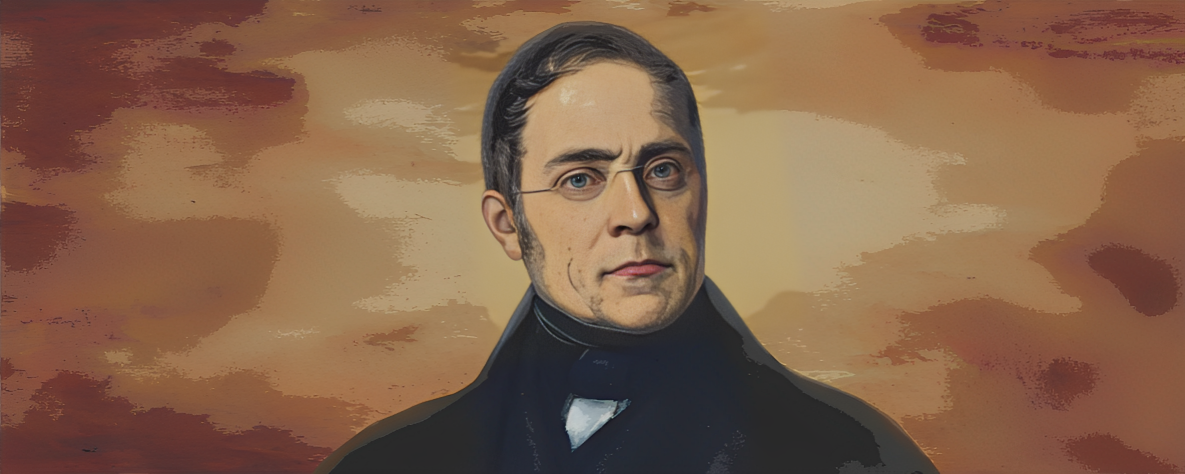
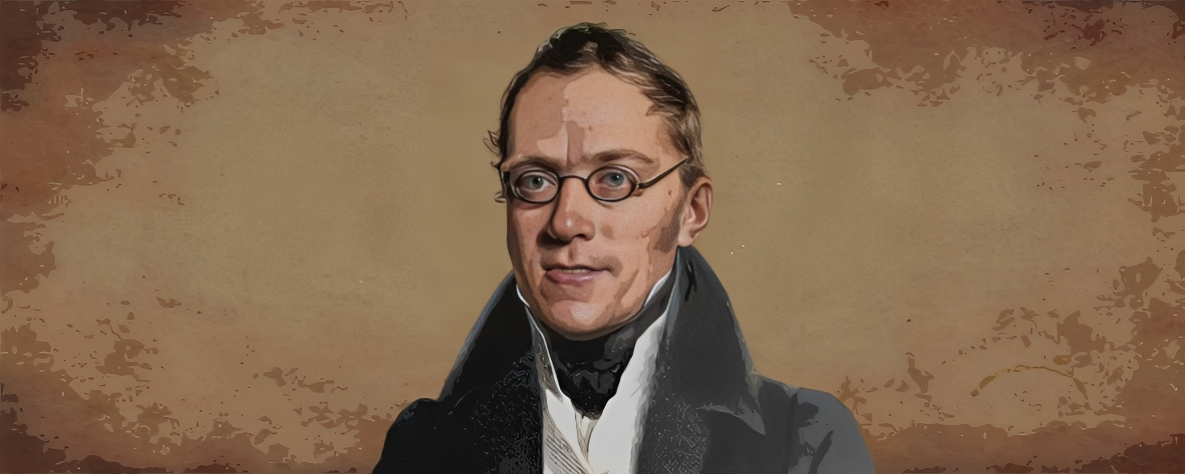
Added czerny's turn

diff --git a/src/utils/scores.ts b/src/utils/scores.ts
@@ -30,6 +30,12 @@ const bach: Score[] = [
 
 const beethoven: Score[] = [
 	{
+		name: 'Symphony No. 5 in C Minor, Op. 67: I. Allegro con brio',
+		composer: 'Ludwig van Beethoven (1770-1827)',
+		url: 'scores/Ludwig van Beethoven/Beethoven_Symphony_No._5_1st_movement_Piano_solo.mid',
+		musescoreUrl: 'https://musescore.com/hmscomp/scores/128179',
+	},
+	{
 		name: 'Piano Sonata No. 8 in C Minor, Op. 13 "Pathétique": III. Rondo. Allegro',
 		composer: 'Ludwig van Beethoven (1770-1827)',
 		url: 'scores/Ludwig van Beethoven/Sonate_No._8_Pathetique_3rd_Movement.mid',
@@ -47,18 +53,12 @@ const beethoven: Score[] = [
 		url: 'scores/Ludwig van Beethoven/MoonlightSonata3rdMovement.mid',
 		musescoreUrl: 'https://musescore.com/classicman/scores/33715',
 	},
-	// {
-	// 	name: 'Piano Sonata No. 14 in C-Sharp Minor, Op. 27, No. 2 "Moonlight": I. Adagio ',
-	// 	composer: 'Ludwig van Beethoven (1770-1827)',
-	// 	url: 'scores/Ludwig van Beethoven/MoonlightSonata1stMovement.mid',
-	// 	musescoreUrl: 'https://musescore.com/classicman/scores/55352',
-	// },
-	// {
-	// 	name: 'Symphony No. 5 in C Minor, Op. 67: I. Allegro con brio',
-	// 	composer: 'Ludwig van Beethoven (1770-1827)',
-	// 	url: 'scores/Ludwig van Beethoven/Beethoven_Symphony_No._5_1st_movement_Piano_solo.mid',
-	// 	musescoreUrl: 'https://musescore.com/hmscomp/scores/128179',
-	// },
+	{
+		name: 'Piano Sonata No. 14 in C-Sharp Minor, Op. 27, No. 2 "Moonlight": I. Adagio ',
+		composer: 'Ludwig van Beethoven (1770-1827)',
+		url: 'scores/Ludwig van Beethoven/MoonlightSonata1stMovement.mid',
+		musescoreUrl: 'https://musescore.com/classicman/scores/55352',
+	},
 ];
 
 const chopin: Score[] = [
@@ -180,6 +180,24 @@ const liszt: Score[] = [
 ];
 
 const mozart: Score[] = [
+	{
+		name: 'Requiem in D minor, K. 626: Lacrimosa',
+		composer: 'Wolfgang Amadeus Mozart (1756-1791)',
+		url: 'scores/Wolfgang Amadeus Mozart/Lacrimosa_original_transcription_for_piano_-_Mozart.mid',
+		musescoreUrl: 'https://musescore.com/user/24356561/scores/5837604',
+	},
+	{
+		name: 'Symphony No. 40 in G Minor, K.550: I. Molto Allegro',
+		composer: 'Wolfgang Amadeus Mozart (1756-1791)',
+		url: 'scores/Wolfgang Amadeus Mozart/W.A.Mozart_-_Symphony_No.40_in_Gm_K550_1st_mvt.mid',
+		musescoreUrl: 'https://musescore.com/user/8066/scores/1470191',
+	},
+	{
+		name: 'Piano Sonata No. 17 in B-Flat Major, K. 570: III. Allegretto',
+		composer: 'Wolfgang Amadeus Mozart (1756-1791)',
+		url: 'scores/Wolfgang Amadeus Mozart/Piano_Sonata_No._17_in_B_Major_K._570_-_III._Allegretto_-_W._A._Mozart.mid',
+		musescoreUrl: 'https://musescore.com/user/23407441/scores/5293191',
+	},
 	{
 		name: 'Piano Sonata No. 16 in C Major, K. 545: I. Allegro',
 		composer: 'Wolfgang Amadeus Mozart (1756-1791)',
@@ -310,9 +328,9 @@ const others: Score[] = [
 
 export const scores: Score[] = [
 	// ...bach,
-	...beethoven,
+	// ...beethoven,
 	// ...chopin,
-	// ...czerny,
+	...czerny,
 	// ...debussy,
 	// ...liszt,
 	// ...mozart,

diff --git a/src/stores/pianoStates/utils.ts b/src/stores/pianoStates/utils.ts
@@ -3,45 +3,47 @@ import { Sampler } from 'tone';
 // IMPORTED UTILS
 import { piano } from './states';
 
-export const setPianoSampler = () =>
-	piano.set(
-		new Sampler({
-			urls: {
-				A0: 'A0v10.ogg',
-				A1: 'A1v10.ogg',
-				A2: 'A2v10.ogg',
-				A3: 'A3v10.ogg',
-				A4: 'A4v10.ogg',
-				A5: 'A5v10.ogg',
-				A6: 'A6v10.ogg',
-				A7: 'A7v10.ogg',
-				C1: 'C1v10.ogg',
-				C2: 'C2v10.ogg',
-				C3: 'C3v10.ogg',
-				C4: 'C4v10.ogg',
-				C5: 'C5v10.ogg',
-				C6: 'C6v10.ogg',
-				C7: 'C7v10.ogg',
-				C8: 'C8v10.ogg',
-				'D#1': 'Ds1v10.ogg',
-				'D#2': 'Ds2v10.ogg',
-				'D#3': 'Ds3v10.ogg',
-				'D#4': 'Ds4v10.ogg',
-				'D#5': 'Ds5v10.ogg',
-				'D#6': 'Ds6v10.ogg',
-				'D#7': 'Ds7v10.ogg',
-				'F#1': 'Fs1v10.ogg',
-				'F#2': 'Fs2v10.ogg',
-				'F#3': 'Fs3v10.ogg',
-				'F#4': 'Fs4v10.ogg',
-				'F#5': 'Fs5v10.ogg',
-				'F#6': 'Fs6v10.ogg',
-				'F#7': 'Fs7v10.ogg',
-			},
-			release: 1,
-			baseUrl: '/audio-samples/piano/',
-		}).toDestination(),
-	);
+export const getSampler = () =>
+	new Sampler({
+		urls: {
+			A0: 'A0v10.ogg',
+			A1: 'A1v10.ogg',
+			A2: 'A2v10.ogg',
+			A3: 'A3v10.ogg',
+			A4: 'A4v10.ogg',
+			A5: 'A5v10.ogg',
+			A6: 'A6v10.ogg',
+			A7: 'A7v10.ogg',
+			C1: 'C1v10.ogg',
+			C2: 'C2v10.ogg',
+			C3: 'C3v10.ogg',
+			C4: 'C4v10.ogg',
+			C5: 'C5v10.ogg',
+			C6: 'C6v10.ogg',
+			C7: 'C7v10.ogg',
+			C8: 'C8v10.ogg',
+			'D#1': 'Ds1v10.ogg',
+			'D#2': 'Ds2v10.ogg',
+			'D#3': 'Ds3v10.ogg',
+			'D#4': 'Ds4v10.ogg',
+			'D#5': 'Ds5v10.ogg',
+			'D#6': 'Ds6v10.ogg',
+			'D#7': 'Ds7v10.ogg',
+			'F#1': 'Fs1v10.ogg',
+			'F#2': 'Fs2v10.ogg',
+			'F#3': 'Fs3v10.ogg',
+			'F#4': 'Fs4v10.ogg',
+			'F#5': 'Fs5v10.ogg',
+			'F#6': 'Fs6v10.ogg',
+			'F#7': 'Fs7v10.ogg',
+		},
+		release: 1,
+		baseUrl: '/audio-samples/piano/',
+	}).toDestination();
+
+export const setPianoSampler = () => {
+	piano.set(getSampler());
+};
 export const initializePianoStates = () => {
 	setPianoSampler();
 };

diff --git a/src/stores/playerStates/utils.ts b/src/stores/playerStates/utils.ts
@@ -1,5 +1,8 @@
 // IMPORTED LIB-TYPES
 import type { Track } from '@tonejs/midi';
+import type { Sampler } from 'tone';
+import type { Subdivision } from 'tone/build/esm/core/type/Units';
+import type { Note as ToneNote } from '@tonejs/midi/dist/Note';
 // IMPORTED TYPES
 import type { Note } from '$stores/pianoStates';
 // IMPORTED LIB-UTILS
@@ -45,6 +48,19 @@ export const getMidi = async () => {
 	const midi = await Midi.fromUrl(score.url);
 	return midi;
 };
+export const triggerAttack = (
+	piano: Sampler,
+	note: ToneNote,
+	speed: number,
+	releaseTime: Subdivision,
+	releaseDelay: number,
+) => {
+	piano.triggerAttack(note.name, undefined, note.velocity);
+	setTimeout(
+		() => piano.triggerRelease(note.name, '+' + releaseTime),
+		note.duration * speed - releaseDelay,
+	);
+};
 export const playTrack = async (track: Track) => {
 	const isAudioOnly = get(settingsStates.isAudioOnly);
 	const speed = isAudioOnly ? 1000 : 1000 / get(playerStates.speed);
@@ -65,13 +81,7 @@ export const playTrack = async (track: Track) => {
 					noteList[name].velocity.set(1);
 					noteList[name].isPressing.set(false);
 				}, note.duration * speed - releaseDelay);
-			} else {
-				piano.triggerAttack(note.name, undefined, note.velocity);
-				setTimeout(
-					() => piano.triggerRelease(note.name, '+' + releaseTime),
-					note.duration * speed - releaseDelay,
-				);
-			}
+			} else triggerAttack(piano, note, speed, releaseTime, releaseDelay);
 		}, note.time * speed);
 		addTimeout(timeout);
 	});

diff --git a/src/routes/+page.svelte b/src/routes/+page.svelte
@@ -3,7 +3,7 @@
 	import { onMount } from 'svelte';
 	import * as Tone from 'tone';
 	// IMPORTED UTILS
-	import { initializeStores } from '$stores/index';
+	import { initializeStores, isInitialized } from '$stores/index';
 	import { windowWidth } from '$stores/mediaStates';
 	import { isAudioOnly, observeFullScreen, observeOrientation } from '$stores/settingsStates';
 	import { noteList } from '$stores/pianoStates';
@@ -20,6 +20,7 @@
 
 	// UTILS
 	const handleKeyDown = (event: KeyboardEvent) => {
+		if (!$isInitialized) return;
 		if (event.key === 'Shift') isShift = true;
 		let eventKey = filterKey(event.key);
 		pianoKeys.map((key) => {
@@ -33,6 +34,7 @@
 		});
 	};
 	const handleKeyUp = (event: KeyboardEvent) => {
+		if (!$isInitialized) return;
 		if (event.key === 'Shift') isShift = false;
 		let eventKey = filterKey(event.key);
 		pianoKeys.map((key) => {
@@ -82,7 +84,7 @@
 <style lang="scss">
 	:root {
 		// VARIABLES
-		$composer: 'beethoven';
+		$composer: 'czerny';
 		// DEFAULT
 		--speed: 4;
 		--bg-position: center;
